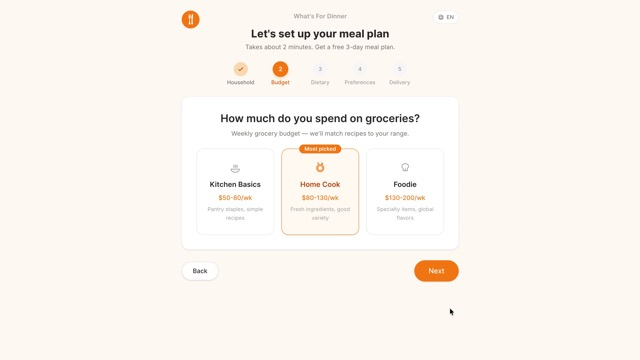
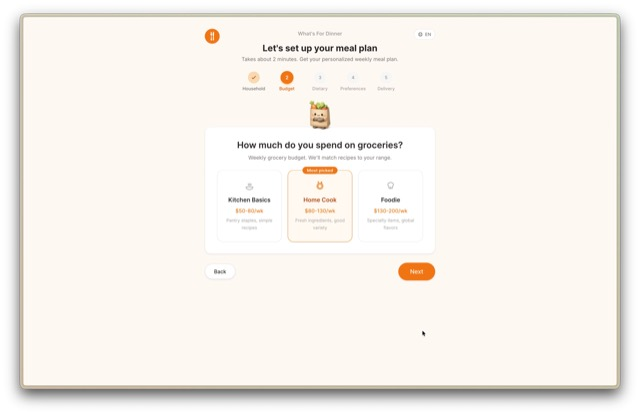
What's for Dinner: new screenshot set, hero first
Replaces the old landing + onboarding stacks with 13 fresh 3680x2388
captures, ordered from the hero (home-1) through onboarding to the weekly
plan. Keeps preview-1, the meal-plan dashboard, which is still the best
shot in the set. Old landing-* deleted, dims updated from 2880x1620.

Also expands the WAYY 'Website UI' copy: it listed features but never
said he designed and built it, which is the part a founder cares about.

diff --git a/src/constants/projects.ts b/src/constants/projects.ts
@@ -330,7 +330,7 @@ export const CASE_STUDIES: CaseStudyData[] = [
       },
       {
         title: 'Website UI',
-        description: 'The live product interface. Contest browsing, sealed betting, leaderboards, artist profiles, and real-time battle views.',
+        description: 'The live product interface: contest browsing, sealed betting, leaderboards, artist profiles and real-time battle views. Designed and built end to end on Next.js and MongoDB, with wallet sign-in, bets escrowed and settled on-chain, and payouts claimed back to the winner.',
         layout: 'landscape',
         gallery: [
           '/content/wayy/web-01.webp',
@@ -478,33 +478,43 @@ export const CASE_STUDIES: CaseStudyData[] = [
     thumbnail: '/content/whatsfordinner/logo.webp',
     color: '#F97316',
     gallery: [
-      '/content/whatsfordinner/landing-1.webp',
-      '/content/whatsfordinner/landing-2.webp',
-      '/content/whatsfordinner/landing-3.webp',
-      '/content/whatsfordinner/preview-1.webp',
+      '/content/whatsfordinner/home-1.webp',
+      '/content/whatsfordinner/home-2.webp',
+      '/content/whatsfordinner/home-3.webp',
+      '/content/whatsfordinner/home-4.webp',
+      '/content/whatsfordinner/home-5.webp',
+      '/content/whatsfordinner/home-6.webp',
+      '/content/whatsfordinner/home-7.webp',
+      '/content/whatsfordinner/home-8.webp',
       '/content/whatsfordinner/onboarding-1.webp',
       '/content/whatsfordinner/onboarding-2.webp',
       '/content/whatsfordinner/onboarding-3.webp',
       '/content/whatsfordinner/onboarding-4.webp',
       '/content/whatsfordinner/onboarding-5.webp',
+      '/content/whatsfordinner/preview-1.webp',
     ],
     previewGallery: [
-      '/content/whatsfordinner/landing-1.webp',
-      '/content/whatsfordinner/landing-2.webp',
+      '/content/whatsfordinner/home-1.webp',
       '/content/whatsfordinner/preview-1.webp',
-      '/content/whatsfordinner/onboarding-3.webp',
+      '/content/whatsfordinner/home-4.webp',
       '/content/whatsfordinner/onboarding-1.webp',
+      '/content/whatsfordinner/home-8.webp',
     ],
     video: '/content/whatsfordinner/whatsfordinner-demo.mp4',
     videoLabel: 'App Demo',
     sections: [
       {
         title: 'Landing Page',
-        description: 'Warm minimal design with orange accents on cream. Hero with social proof metrics, meal plan preview with grocery list, and simple pricing.',
+        description: 'Warm minimal design, orange on cream. The hero doubles as the product: pick how you eat, set your calories, and generate a day before signing up for anything.',
         gallery: [
-          '/content/whatsfordinner/landing-1.webp',
-          '/content/whatsfordinner/landing-2.webp',
-          '/content/whatsfordinner/landing-3.webp',
+          '/content/whatsfordinner/home-1.webp',
+          '/content/whatsfordinner/home-2.webp',
+          '/content/whatsfordinner/home-3.webp',
+          '/content/whatsfordinner/home-4.webp',
+          '/content/whatsfordinner/home-5.webp',
+          '/content/whatsfordinner/home-6.webp',
+          '/content/whatsfordinner/home-7.webp',
+          '/content/whatsfordinner/home-8.webp',
         ],
         layout: 'deck',
       },
@@ -522,7 +532,7 @@ export const CASE_STUDIES: CaseStudyData[] = [
       },
       {
         title: 'Meal Plan Dashboard',
-        description: 'Weekly meal plan with day-by-day breakdown, calorie counts, cook times, and an auto-generated grocery list with estimated cost.',
+        description: 'The weekly plan: day-by-day meals with calorie counts and cook times, beside a grocery list grouped by aisle with an estimated cost. Regenerates every Sunday.',
         gallery: [
           '/content/whatsfordinner/preview-1.webp',
         ],

diff --git a/src/v2/imageDims.ts b/src/v2/imageDims.ts
@@ -231,15 +231,20 @@ const RAW: Record<string, [number, number]> = {
   "/content/wayy/web-battle.webp": [1400,910],
   "/content/wayy/web-home.webp": [1400,787],
   "/content/wayy/web-markets.webp": [1400,787],
-  "/content/whatsfordinner/landing-1.webp": [2880,1620],
-  "/content/whatsfordinner/landing-2.webp": [2880,1620],
-  "/content/whatsfordinner/landing-3.webp": [2880,1620],
+  "/content/whatsfordinner/home-1.webp": [3680,2388],
+  "/content/whatsfordinner/home-2.webp": [3680,2388],
+  "/content/whatsfordinner/home-3.webp": [3680,2388],
+  "/content/whatsfordinner/home-4.webp": [3680,2388],
+  "/content/whatsfordinner/home-5.webp": [3680,2388],
+  "/content/whatsfordinner/home-6.webp": [3680,2388],
+  "/content/whatsfordinner/home-7.webp": [3680,2388],
+  "/content/whatsfordinner/home-8.webp": [3680,2388],
   "/content/whatsfordinner/logo.webp": [512,512],
-  "/content/whatsfordinner/onboarding-1.webp": [2880,1620],
-  "/content/whatsfordinner/onboarding-2.webp": [2880,1620],
-  "/content/whatsfordinner/onboarding-3.webp": [2880,1620],
-  "/content/whatsfordinner/onboarding-4.webp": [2880,1620],
-  "/content/whatsfordinner/onboarding-5.webp": [2880,1620],
+  "/content/whatsfordinner/onboarding-1.webp": [3680,2388],
+  "/content/whatsfordinner/onboarding-2.webp": [3680,2388],
+  "/content/whatsfordinner/onboarding-3.webp": [3680,2388],
+  "/content/whatsfordinner/onboarding-4.webp": [3680,2388],
+  "/content/whatsfordinner/onboarding-5.webp": [3680,2388],
   "/content/whatsfordinner/preview-1.webp": [2880,1620],
   "/content/seeker/10-hours.webp": [1400,1400],
   "/content/seeker/greatness.webp": [1400,1400],
